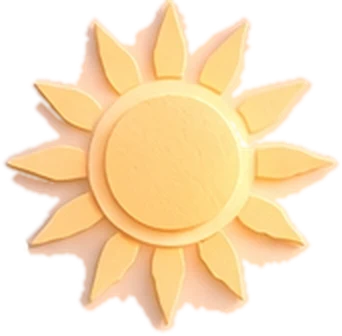
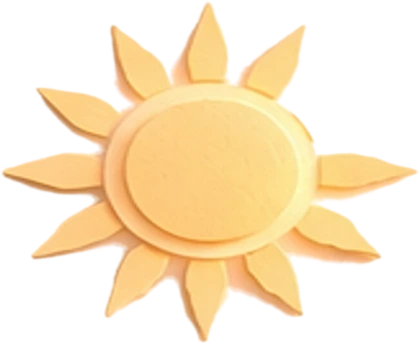
大樹葉子補洞、只在葉子底下補色；太陽重新精細去背
Claude-Session: https://claude.ai/code/session_015p85XBWVqjkFtHRQgipjj8

Changed region(s): [[0.0, 0.0, 0.9942, 1.0], [0.6725, 0.5357, 0.7018, 0.5952]]

diff --git a/src/style.css b/src/style.css
@@ -713,6 +713,6 @@ body:has(.garden-app) { background: var(--gp-bg); }
 .scene-tree.t1 { transform-origin: 20% 60%; animation: leafA 5.4s ease-in-out -2.3s infinite; }
 .scene-tree.t2 { transform-origin: 34% 75%; animation: leafB 4.9s ease-in-out -.6s infinite; }
 .scene-tree.t3 { transform-origin: 40% 80%; animation: leafA 5.8s ease-in-out -3.4s infinite; }
-@keyframes leafA { 0%, 100% { transform: rotate(-1deg) translateX(-1px); } 50% { transform: rotate(1.1deg) translateX(2px); } }
-@keyframes leafB { 0%, 100% { transform: rotate(.9deg); } 45% { transform: rotate(-1.2deg) translateY(1px); } }
+@keyframes leafA { 0%, 100% { transform: rotate(-.7deg); } 50% { transform: rotate(.75deg) translateX(1px); } }
+@keyframes leafB { 0%, 100% { transform: rotate(.65deg); } 45% { transform: rotate(-.8deg) translateY(1px); } }
 @media (prefers-reduced-motion: reduce) { .scene-tree { animation: none !important; } }

diff --git a/scripts/garden-scene.py b/scripts/garden-scene.py
@@ -100,26 +100,39 @@ for i, (x, y, s) in enumerate(order):
     dr.ellipse([x - 30 * s, y - 12 * s, x + 30 * s, y + 12 * s], outline=(255, 80, 80), width=3); dr.text((x - 6, y - 6), str(i), fill=(255, 255, 255))
 d.resize((768, 512)).save(sys.argv[3] if len(sys.argv) > 3 else out + '_spots_preview.png')
 
-# ---- 大樹：把樹冠分成幾叢各自擺動，並把背景裡原本的樹葉補成周圍的顏色，擺動時才不會出現疊影 ----
+# ---- 大樹：樹冠分成幾叢各自擺動；只把「葉子底下」的背景補色，葉子之間的天空、樹枝保留原圖 ----
 import cv2
-tree = np.array(Image.open(out + 'tree.webp').convert('RGBA'))
-leafmask = ndimage.binary_opening(tree[..., 3] > 40, iterations=1)
-leafmask[170:360, 245:375] = False   # 路燈（發亮的黃色燈罩不是葉子）
-tree[..., 3] = (np.clip(ndimage.gaussian_filter(leafmask.astype(float), 0.7) * 1.4, 0, 1) * 255).astype(np.uint8)   # 葉子完全不透明
-alpha = tree[..., 3].astype(float)
-solid = leafmask
-lab, n = ndimage.label(alpha > 40)
-cents = ndimage.center_of_mass(alpha > 40, lab, range(1, n + 1))
+src_full = np.array(im).astype(float)
+TW, TH = 860, 380
+a = src_full[:TH, :TW]
+r, g, b = a[..., 0], a[..., 1], a[..., 2]
+mx, mn = a.max(2), a.min(2); sat = (mx - mn) / (mx + 1e-6)
+yy, xx = np.mgrid[0:TH, 0:TW]
+leaf = (sat > 0.18) & (g > 0.9 * r) & (g > b + 20)
+leaf &= ~(((xx > 470) & (yy > 150)) | ((xx > 560) & (sat < 0.32)))     # 溫室藤蔓、遠處背景樹
+leaf[170:380, 245:375] = False                                          # 路燈
+trunk = (r - g > 32) & (b < 150)
+leaf = ndimage.binary_closing(leaf, structure=np.ones((3, 3)), iterations=2)
+leaf = ndimage.binary_fill_holes(leaf) & ~trunk                          # 補起葉子內部的小洞
+leaf = ndimage.binary_opening(leaf, iterations=2)
+lab, n = ndimage.label(leaf)
+sizes = ndimage.sum(leaf, lab, range(1, n + 1))
+leaf = np.isin(lab, [i + 1 for i, v in enumerate(sizes) if v > 150])
+alpha = np.clip(ndimage.gaussian_filter(leaf.astype(float), 0.8) * 1.5, 0, 1)
+rgba = np.dstack([a, alpha * 255]).astype(np.uint8)
+lab, n = ndimage.label(leaf)
+cents = ndimage.center_of_mass(leaf, lab, range(1, n + 1))
 CLUSTERS = [lambda cx, cy: cx < 240 and cy > 140, lambda cx, cy: cx < 330 and cy <= 140,
             lambda cx, cy: 330 <= cx < 520, lambda cx, cy: cx >= 520 or (cx >= 240 and cy > 140)]
+grown = ndimage.grey_dilation(lab, size=(3, 3))     # 讓邊緣羽化的像素也歸到同一叢
 for k, rule in enumerate(CLUSTERS):
     ids = [i + 1 for i, (cy, cx) in enumerate(cents) if rule(cx, cy)]
-    part = tree.copy()
-    part[..., 3] = np.where(np.isin(lab, ids), tree[..., 3], 0)
-    Image.fromarray(part, 'RGBA').save(out + f'tree-{k}.webp', quality=84, method=4)
-bd = np.array(Image.open(out + 'backdrop.webp').convert('RGB'))
+    part = rgba.copy()
+    part[..., 3] = np.where(np.isin(grown, ids), rgba[..., 3], 0)
+    Image.fromarray(part, 'RGBA').save(out + f'tree-{k}.webp', quality=88, method=4)
+bd = np.array(im).copy()
 fill = np.zeros(bd.shape[:2], np.uint8)
-fill[:tree.shape[0], :tree.shape[1]] = ndimage.binary_dilation(solid, iterations=8).astype(np.uint8) * 255
-bd = cv2.inpaint(np.ascontiguousarray(bd[..., ::-1]), fill, 12, cv2.INPAINT_TELEA)[..., ::-1]
-Image.fromarray(bd).save(out + 'backdrop.webp', quality=80, method=4)
+fill[:TH, :TW] = (ndimage.binary_dilation(leaf, iterations=1) & ~trunk).astype(np.uint8) * 255
+bd = cv2.inpaint(np.ascontiguousarray(bd[..., ::-1]), fill, 6, cv2.INPAINT_TELEA)[..., ::-1]
+Image.fromarray(bd).save(out + 'backdrop.webp', quality=82, method=4)
 print('tree clusters + backdrop inpainted')

diff --git a/scripts/cut-sun.py b/scripts/cut-sun.py
@@ -1,0 +1,39 @@
+"""從插畫裁出紙雕太陽：放大 4 倍後依「黃色程度」做柔和去背，邊緣顏色往太陽本色收，避免粉色陰影與鋸齒。"""
+import sys
+import numpy as np
+from PIL import Image
+from scipy import ndimage
+src, dst = sys.argv[1], sys.argv[2]
+im = Image.open(src).convert('RGB').crop((1255, 0, 1465, 172))
+S = 4
+big = np.array(im.resize((im.width * S, im.height * S), Image.BICUBIC)).astype(float)
+r, g, b = big[..., 0], big[..., 1], big[..., 2]
+edge = np.concatenate([big[0], big[-1], big[:, 0], big[:, -1]])
+sky = np.median(edge, 0)
+yellow = (r + g) / 2 - b                      # 太陽約 90，天空約 15，粉色紙影約 30–40
+sky_y = (sky[0] + sky[1]) / 2 - sky[2]
+alpha = np.clip((yellow - sky_y - 33) / 12, 0, 1)
+core = ndimage.binary_fill_holes(alpha > 0.5)
+lab, n = ndimage.label(core)
+sizes = ndimage.sum(core, lab, range(1, n + 1))
+core = lab == (np.argmax(sizes) + 1)
+# 中間的圓（含淡色外圈）整個保留
+ys, xs = np.nonzero(core)
+cy, cx = (ys.min() + ys.max()) / 2, (xs.min() + xs.max()) / 2
+R = 0.262 * (xs.max() - xs.min())
+yy, xx = np.mgrid[0:core.shape[0], 0:core.shape[1]]
+disc = (yy - cy) ** 2 + (xx - cx) ** 2 <= R ** 2
+core |= disc
+alpha = np.maximum(alpha, disc.astype(float))
+alpha = np.where(ndimage.binary_dilation(core, iterations=S), alpha, 0)
+alpha = np.maximum(alpha, ndimage.binary_erosion(core, iterations=S).astype(float))
+alpha = ndimage.gaussian_filter(alpha, 0.35 * S)
+# 邊緣去色邊：半透明像素的顏色換成附近不透明的太陽顏色
+solid = alpha > 0.95
+idx = ndimage.distance_transform_edt(~solid, return_distances=False, return_indices=True)
+fixed = big[idx[0], idx[1]]
+rgb = np.where((alpha < 0.95)[..., None], fixed, big)
+out = Image.fromarray(np.dstack([rgb, alpha * 255]).astype(np.uint8), 'RGBA')
+out = out.crop(out.getbbox()).resize((out.width // 2, out.height // 2), Image.LANCZOS)
+out.save(dst, quality=92)
+print(out.size)
